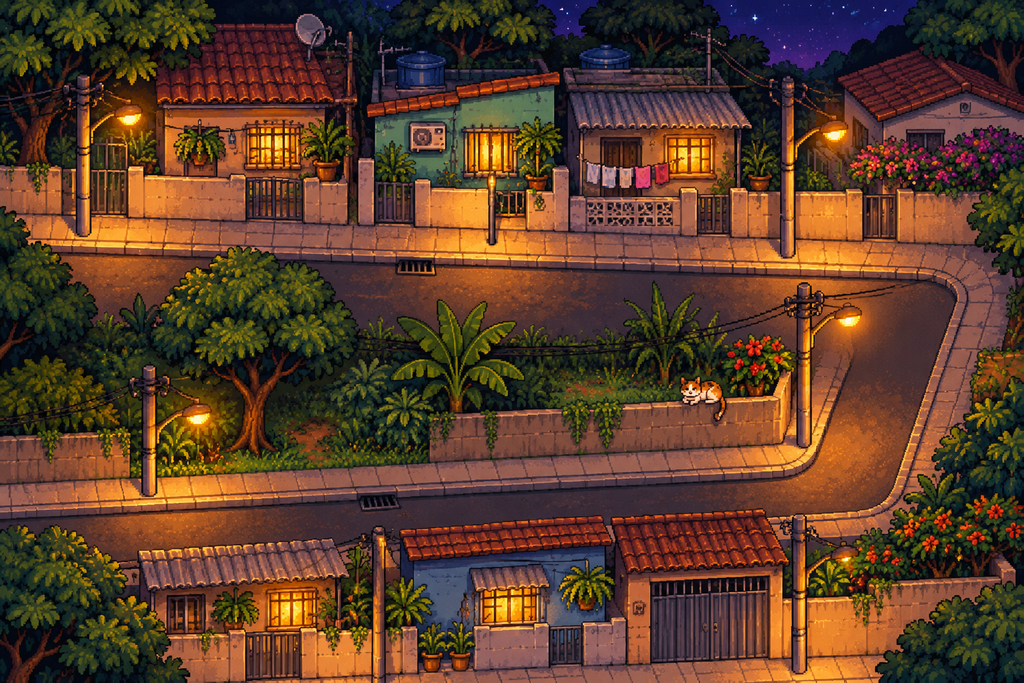
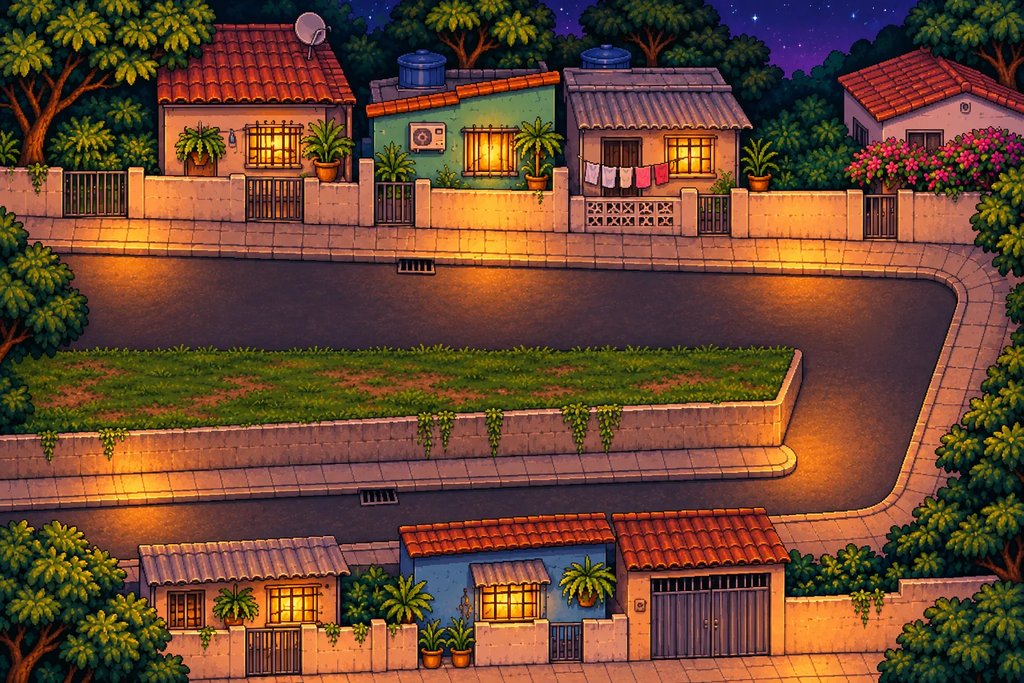
Fragoso v2: cenário vazio + objetos da folha; garçonete passeia pelo salão com colisão
- Fragoso remontado: postes, árvore, bananeira, moitas, flores e o gatinho como objetos
  com profundidade fixa; bloqueios e gatilhos das conversas medidos no fundo novo;
  luzes nos postes; backup da v1 em backups/fragoso-v1/
- Rota 66: a atendente anda pelo salão com as mesmas colisões dos outros NPCs

Claude-Session: https://claude.ai/code/session_01PDyLU6Huw5amytFREh1vA2

diff --git a/src/regions/piabeta/fragoso.map.ts b/src/regions/piabeta/fragoso.map.ts
@@ -119,7 +119,7 @@ const scripts: Record<string, Script> = {
   },
 };
 
-/** Retângulo no cenário ORIGINAL (art-source/maps/piabeta-fragoso.png, 1536x1024). 48 px = 1 tile. */
+/** Retângulo no cenário ORIGINAL (art-source/maps/piabeta-fragoso-base.webp, 1536x1024). 48 px = 1 tile. */
 const R = (x0: number, y0: number, x1: number, y1: number): TileRect => ({ x: x0 / 48, y: y0 / 48, w: (x1 - x0) / 48, h: (y1 - y0) / 48 });
 
 /** Fragoso à noite (cenário pintado): calçada de cima → curva à direita → rua de baixo. */
@@ -133,85 +133,87 @@ export const fragosoMap: MapDef = {
   art: 'native',
   legend: { '.': T.SIDEWALK },
   ground: Array.from({ length: 22 }, () => '.'.repeat(32)),
+  // v2: cenário vazio (art-source/maps/piabeta-fragoso-base.webp) + objetos da folha (objects/frg-*).
+  // Versão anterior (cenário pintado inteiro com recortes) em backups/fragoso-v1/.
   blocks: [
-    R(0, 0, 1500, 322), // casas e muros de cima
-    R(1500, 0, 1536, 1024), // árvores da direita
-    // terreno do meio: plantas/árvores (topo) + muro (frente)
-    R(0, 470, 1192, 600), // terreno com plantas (dá pra encostar nas folhas)
-    R(0, 600, 700, 702), // muro da esquerda (até a faixa de grama, ninguém entra na parede)
-    R(700, 600, 1205, 660), // muro do gato
-    R(1192, 445, 1205, 660),
-    // casas de baixo (telhados)
+    R(0, 0, 1536, 326), // casas e muros de cima
+    R(1490, 326, 1536, 560), // árvores da direita
+    R(1440, 560, 1536, 700),
+    R(1410, 700, 1536, 1024),
+    R(0, 395, 128, 515), // folhagem da esquerda (a calçada de cima fica livre)
+    R(0, 515, 1200, 690), // terreno do meio + muro (a calçada de baixo fica livre)
     // casas de baixo: bloqueio na linha do beiral de cada telhado
-    R(0, 808, 200, 1024), // moitas do canto (a parte de cima fica por cima dos pés)
-    R(200, 806, 525, 1024),
-    R(525, 792, 600, 1024),
+    R(0, 782, 205, 1024),
+    R(205, 810, 525, 1024),
+    R(525, 795, 600, 1024),
     R(600, 776, 920, 1024),
     R(920, 768, 1185, 1024),
-    R(1185, 768, 1380, 1024),
-    R(1380, 700, 1536, 780), // folhagem do canto
-    R(1405, 575, 1536, 700), // arbustos à direita da curva
-    R(0, 392, 122, 445), // arbustos do canto de cima à esquerda (a calçada de cima fica livre)
+    R(1185, 815, 1410, 1024),
     // bases dos postes
-    R(204, 712, 240, 745),
-    R(108, 332, 140, 360),
-    R(724, 344, 752, 370),
-    R(1166, 362, 1196, 390),
+    R(108, 333, 140, 355),
+    R(721, 346, 753, 368),
+    R(1165, 366, 1197, 388),
+    R(206, 723, 238, 745),
+    R(1190, 668, 1222, 690),
   ],
-  overlays: [
-    // postes: quem passa atrás (ao norte da base) fica atrás da haste
-    // postes: haste estreita (sem fio nem chão) + luminária pelo contorno
-    { x0: 206, y0: 540, x1: 242, y1: 745, base: 744, cut: 'column', tall: true },
-    { x0: 258, y0: 598, x1: 324, y1: 660, base: 744, cut: 'outline', tall: true },
-    { x0: 1188, y0: 405, x1: 1226, y1: 692, base: 690, cut: 'column', tall: true },
-    { x0: 1236, y0: 420, x1: 1302, y1: 478, base: 690, cut: 'outline', tall: true },
-    // plantas do terreno: as folhas ficam na frente dos pés de quem encosta nelas
-    { x0: 0, y0: 770, x1: 205, y1: 900, base: 900, cut: 'foliage', fade: true }, // moitas do canto de baixo
-    { x0: 1290, y0: 700, x1: 1536, y1: 900, base: 900, cut: 'foliage', fade: true },
-    // copa da árvore: fica translúcida quando alguém passa atrás
-    { x0: 240, y0: 330, x1: 520, y1: 600, base: 600, cut: 'foliage', fade: true, tall: true },
+
+  // Objetos: x = centro, y = base (px da arte original). Profundidade fixa na base.
+  objects: [
+    { key: 'frg-poste', x: 154, y: 355, w: 100, shadow: 0.35 },
+    { key: 'frg-poste', x: 767, y: 368, w: 100, shadow: 0.35 },
+    { key: 'frg-poste', x: 1211, y: 388, w: 100, shadow: 0.35 },
+    { key: 'frg-poste', x: 252, y: 745, w: 100, shadow: 0.35 },
+    { key: 'frg-poste', x: 1236, y: 690, w: 100, shadow: 0.35 },
+    { key: 'frg-arvore', x: 385, y: 600, w: 300, fade: true, shadow: 0.6 },
+    { key: 'frg-bananeira', x: 690, y: 604, w: 200, fade: true, shadow: 0.5 },
+    { key: 'frg-moitas', x: 930, y: 612, w: 220, fade: true, shadow: false },
+    { key: 'frg-moita', x: 560, y: 610, w: 120, shadow: false },
+    { key: 'frg-moita', x: 190, y: 612, w: 130, shadow: false, flip: true },
+    { key: 'frg-flores', x: 1135, y: 620, w: 100, shadow: false },
+    { key: 'frg-gato', x: 1050, y: 620, w: 78, shadow: false },
   ],
 
   lighting: {
     darkness: 0.4,
     when: () => !QuestSystem.isActive('dq-e2'),
     lights: [
-      { x: 195, y: 130, r: 260 },
-      { x: 1251, y: 153, r: 260 },
-      { x: 1275, y: 419, r: 260 },
-      { x: 299, y: 584, r: 260 },
+      { x: 189, y: 156, r: 230 },
+      { x: 802, y: 169, r: 230 },
+      { x: 1246, y: 189, r: 230 },
+      { x: 287, y: 546, r: 230 },
+      { x: 1271, y: 491, r: 230 },
     ],
   },
 
   hotspots: [
-    { rect: R(1010, 560, 1095, 640), interact: 'gato', label: 'Gato' },
+    { rect: R(1005, 560, 1100, 640), interact: 'gato', label: 'Gato' },
     { rect: R(865, 230, 1010, 330), interact: 'varal', label: 'Varal' },
-    { rect: R(100, 150, 150, 362), interact: 'poste', label: 'Poste' },
+    { rect: R(100, 110, 165, 360), interact: 'poste', label: 'Poste' },
   ],
   spawns: {
-    'from-rota66': { tx: 2.6, ty: 6.3, facing: 'right' },
+    'from-rota66': { tx: 3.4, ty: 6.3, facing: 'right' },
     'from-parque': { tx: 2.2, ty: 14.4, facing: 'right' },
   },
   exits: [
     {
-      rect: R(0, 322, 22, 468),
+      rect: R(0, 326, 22, 395),
       toMap: 'piabeta-rota66-fora',
       toSpawn: 'from-fragoso',
       // a caminhada é pra frente: voltar pra Rota 66 só depois de chegar no parque
       blockedIf: () => (QuestSystem.isActive(Q) && !QuestSystem.isObjectiveDone(Q, 'parque') ? 'Weng: "A Rota 66 ficou pra trás! O parque é pro outro lado →"' : false),
     },
     {
-      rect: R(0, 668, 22, 800),
+      rect: R(0, 690, 22, 780),
       toMap: 'piabeta-parque',
       toSpawn: 'from-rota66',
       blockedIf: () => (QuestSystem.isActive(Q) && !QuestSystem.isObjectiveDone(Q, 'fragoso') ? 'Vamos com calma, sem pressa.' : false),
     },
   ],
   triggers: [
-    { id: 'c1', rect: R(380, 322, 410, 468), script: 'conversa1', once: true, enabledIf: () => QuestSystem.isActive(Q) },
-    { id: 'c2', rect: R(1000, 322, 1030, 468), script: 'conversa2', once: true, enabledIf: () => QuestSystem.isActive(Q) },
-    { id: 'c3', rect: R(1192, 560, 1500, 590), script: 'conversa3', once: true, enabledIf: () => QuestSystem.isActive(Q) },
-    { id: 'c4', rect: R(700, 668, 730, 800), script: 'conversa4', once: true, enabledIf: () => QuestSystem.isActive(Q) },
+    { id: 'c1', rect: R(380, 326, 410, 515), script: 'conversa1', once: true, enabledIf: () => QuestSystem.isActive(Q) },
+    { id: 'c2', rect: R(1000, 326, 1030, 515), script: 'conversa2', once: true, enabledIf: () => QuestSystem.isActive(Q) },
+    { id: 'c3', rect: R(1200, 560, 1490, 590), script: 'conversa3', once: true, enabledIf: () => QuestSystem.isActive(Q) },
+    { id: 'c4', rect: R(700, 690, 730, 830), script: 'conversa4', once: true, enabledIf: () => QuestSystem.isActive(Q) },
   ],
   scripts,
   onEnter: 'entrar',

diff --git a/src/regions/piabeta/rota66.map.ts b/src/regions/piabeta/rota66.map.ts
@@ -314,8 +314,8 @@ export const rota66Map: MapDef = {
     { rect: R(240, 20, 420, 210), interact: 'quadro', label: 'Neon' },
   ],
 
-  // a atendente fica no canto da direita (perto do jukebox), sem fechar o corredor do balcão
-  npcs: [{ id: 'atendente', sprite: 'atendente', tx: 25.3, ty: 10.9, facing: 'left', interact: 'atendente' }],
+  // a atendente anda pelo salão (com as mesmas colisões dos outros personagens)
+  npcs: [{ id: 'atendente', sprite: 'atendente', tx: 16.2, ty: 10.7, facing: 'down', interact: 'atendente', behavior: 'wander', wanderRadius: 4, wanderAxis: 'both' }],
   spawns: {
     'from-fora': { tx: 15.2, ty: 16.7, facing: 'up' }, // atrás da porta de vidro; a cena de entrada traz pra dentro
   },

diff --git a/src/config/assetManifest.ts b/src/config/assetManifest.ts
@@ -72,6 +72,10 @@ export const ASSETS: AssetEntry[] = [
   ),
 
   // Casal sentado no banco (4 quadros 200x150: normal, piscando, expressão, normal)
+  // Fragoso v2: objetos recortados da folha
+  ...['poste', 'arvore', 'bananeira', 'moitas', 'moita', 'flores', 'gato', 'poste2'].map(
+    (n, i): AssetEntry => ({ id: `OBJ-FRG-${i}`, key: `frg-${n}`, file: `assets/objects/frg-${n}.png`, kind: 'image' }),
+  ),
   // Rota 66 v2: objetos recortados da folha (tools/sprite-sheet.py)
   ...['cabine', 'mesinha', 'banqueta', 'bomba', 'jukebox', 'planta', 'floreira', 'porta', 'divisoria', 'vidro'].map(
     (n, i): AssetEntry => ({ id: `OBJ-R66-${i}`, key: `r66-${n}`, file: `assets/objects/r66-${n}.png`, kind: 'image' }),

diff --git a/docs/ASSET_MANIFEST.md b/docs/ASSET_MANIFEST.md
@@ -189,5 +189,5 @@ Backup da versão pintada inteira em `backups/rota66-v1/`.
 Ordem: gerar primeiro a base (anexando a Rota 66 atual como referência de estilo), depois a folha
 (anexando a Rota 66 atual e a base nova). Fundo da folha: magenta #FF00FF liso.
 | NPC-004L | Atendente da Rota 66 limpando (2 linhas x 4 quadros, fundo magenta) | npcs/atendente-limpando.png | descartado (atendente fica parada no balcão) |
-| MAP-021 | Fragoso vazio (ruas, calçadas, casas, muros, sem postes/árvore do meio/bananeira/gato) | maps/piabeta-fragoso-base.png | pedido |
-| OBJ-FRG | Folha de objetos de Fragoso (8 objetos em fundo magenta) | objects/fragoso-folha.png | pedido |
+| MAP-021 | Fragoso vazio (ruas, calçadas, casas, muros, sem postes/árvore do meio/bananeira/gato) | maps/piabeta-fragoso-base.webp | ✅ no jogo |
+| OBJ-FRG | Folha de objetos de Fragoso (8 objetos em fundo magenta) | objects/fragoso-folha.webp → objects/frg-*.png | ✅ no jogo |
